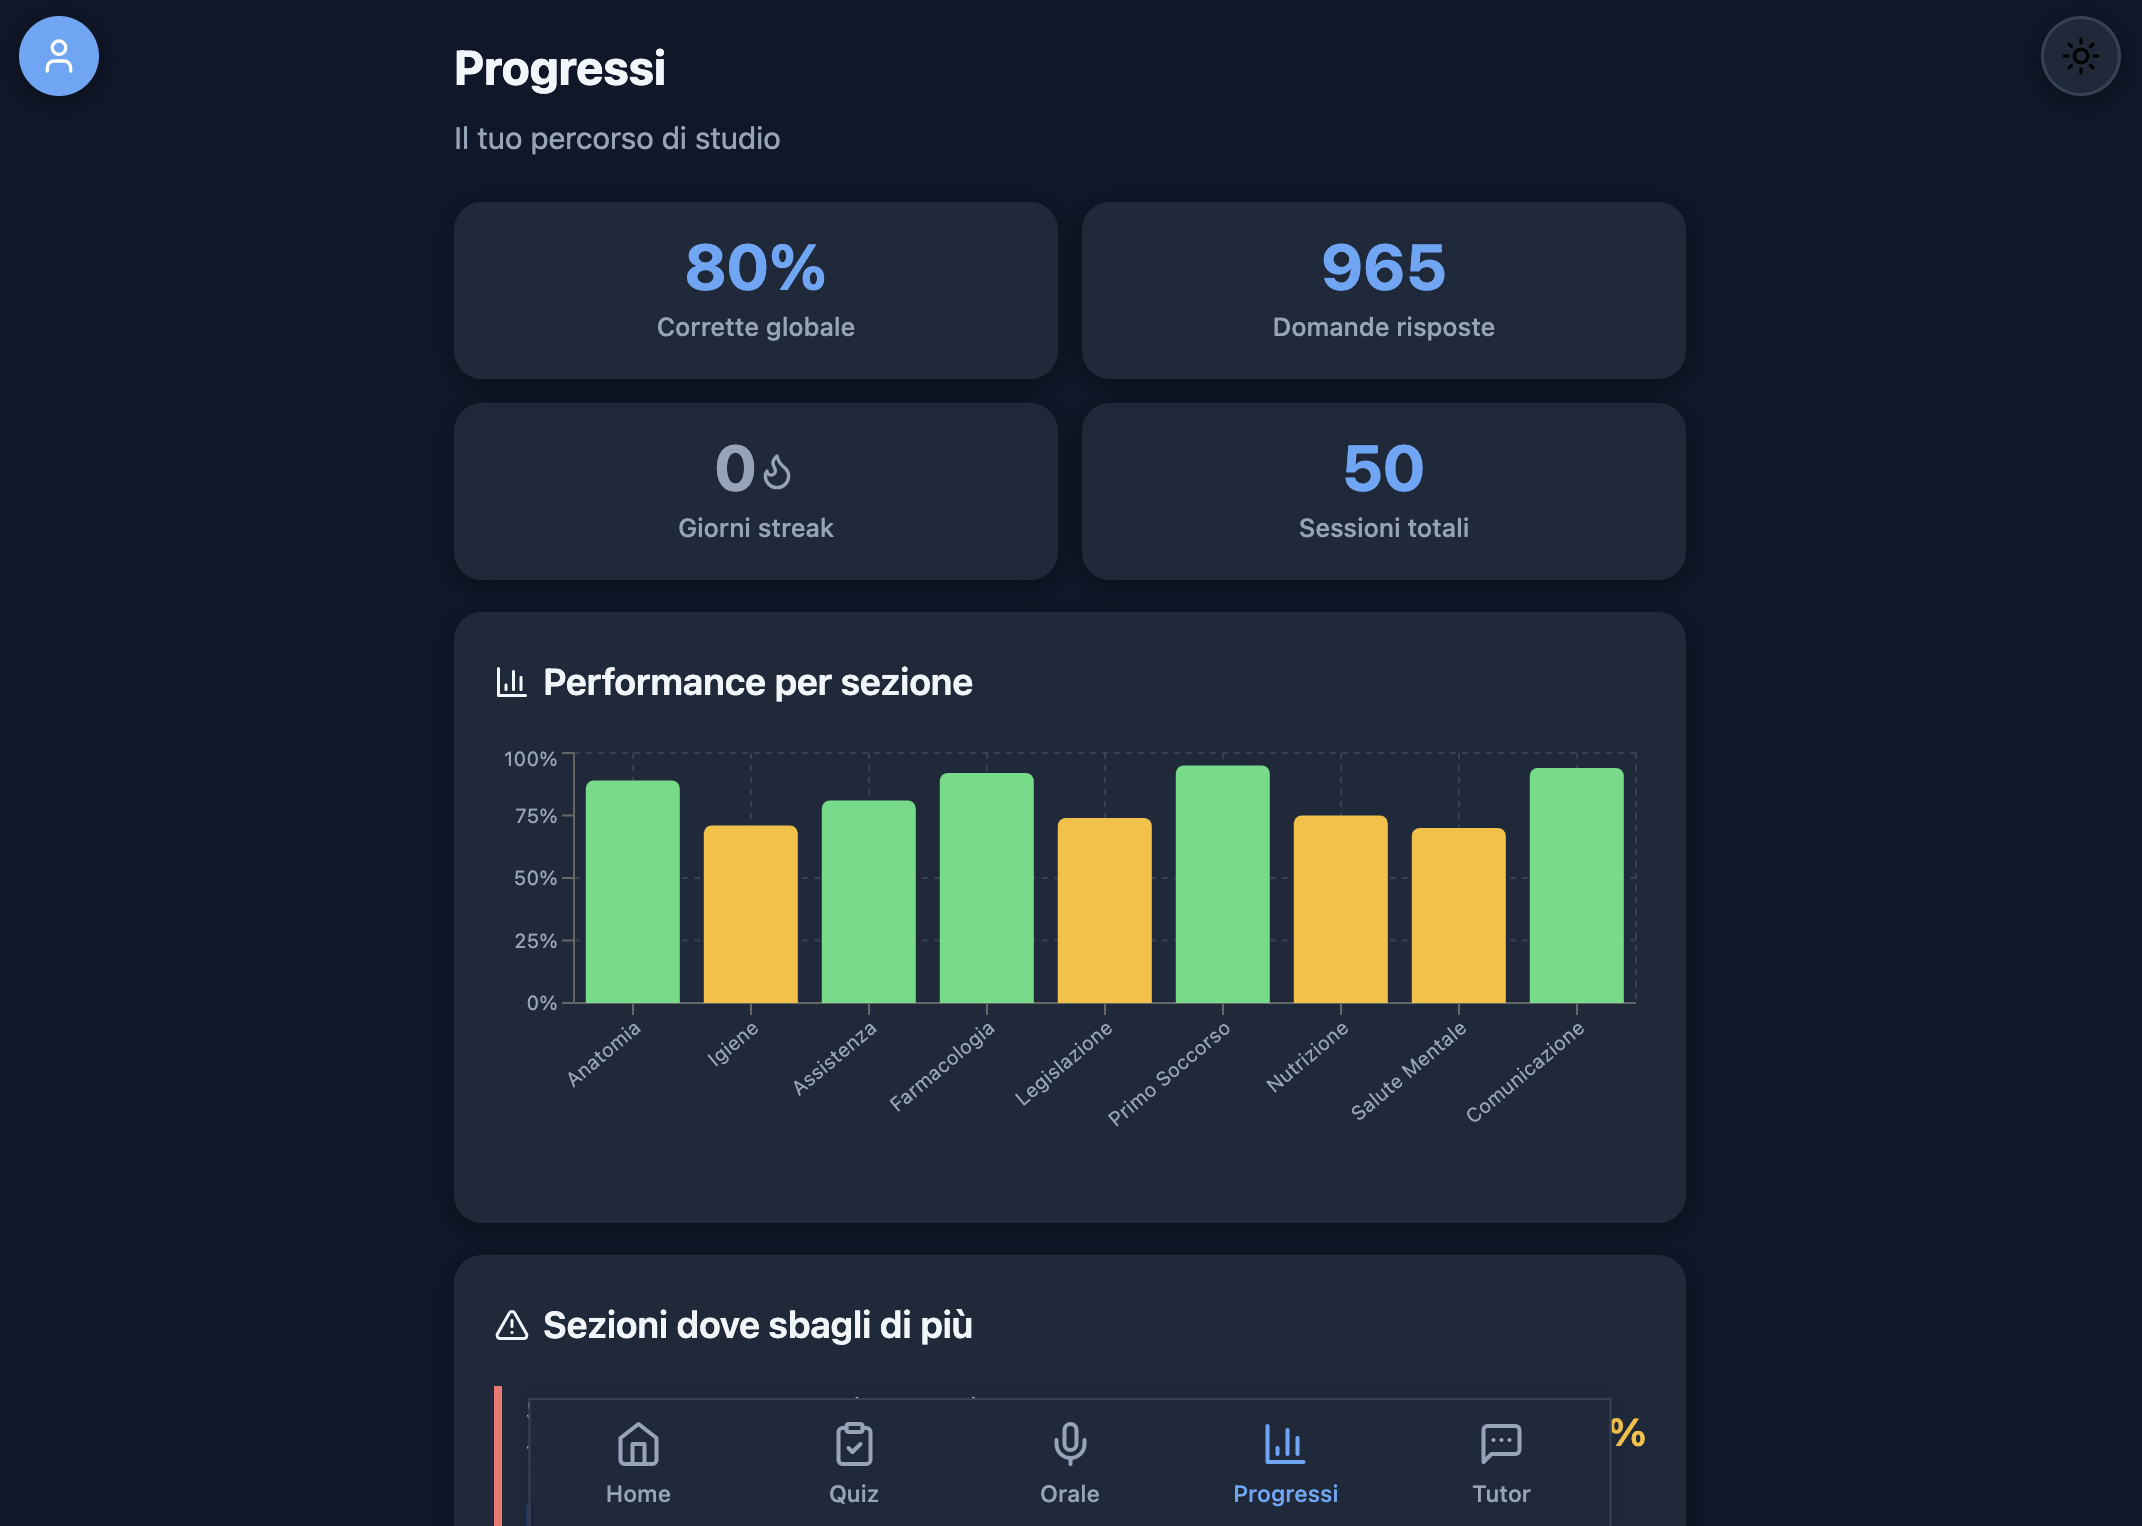
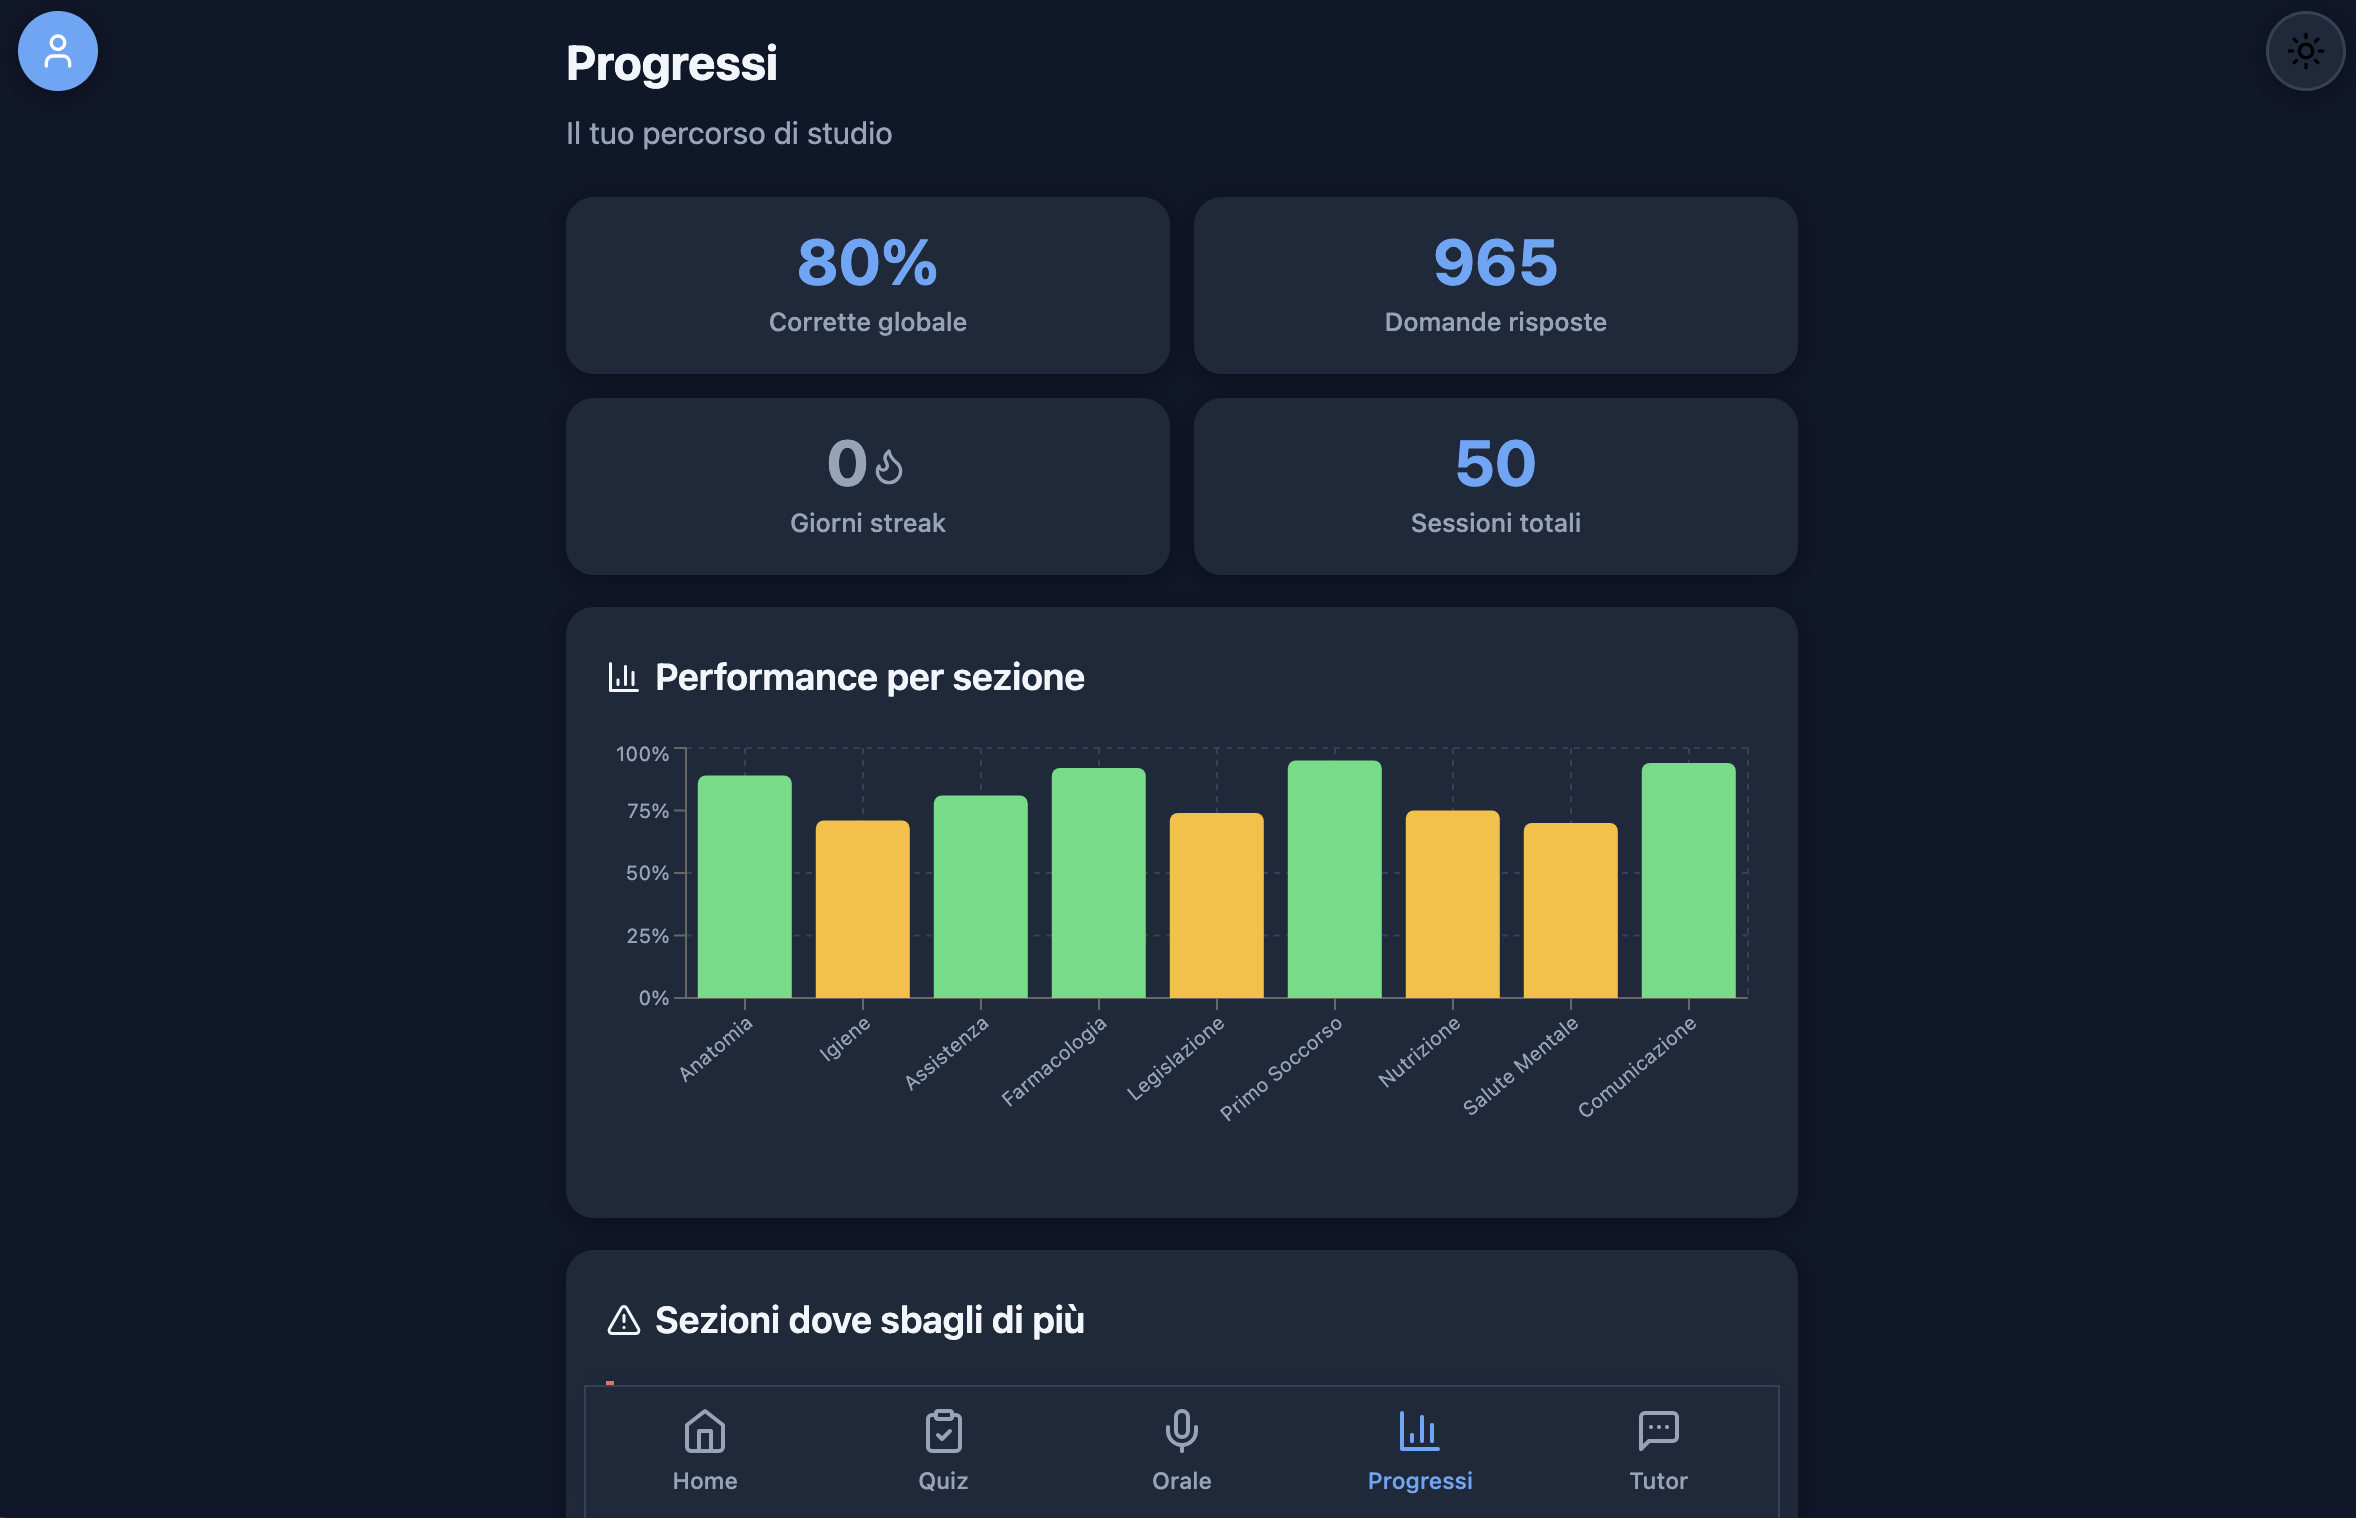
docs: screenshot aggiornati dei Progressi e del Tutor AI nel README

diff --git a/README.md b/README.md
@@ -17,8 +17,12 @@ To provide a realistic and measurable preparation path for the OSS competition, 
 | ![Login](docs/screenshots/login.png) | ![Home](docs/screenshots/home.png) |
 | **Oral exam — start and voice picker** | **Oral exam — answering** |
 | ![Oral start](docs/screenshots/oral-start.png) | ![Oral answer](docs/screenshots/oral-answer.png) |
-| **Progress dashboard** | **Completed oral questions** |
-| ![Progress](docs/screenshots/progress.png) | ![Oral history](docs/screenshots/oral-history.png) |
+| **Completed oral questions** | **Progress — overview** |
+| ![Oral history](docs/screenshots/oral-history.png) | ![Progress overview](docs/screenshots/progress.png) |
+| **Progress — review and errors** | **Progress — oral section** |
+| ![Progress review](docs/screenshots/progress-review.png) | ![Progress oral](docs/screenshots/progress-oral.png) |
+| **AI Tutor** | |
+| ![AI Tutor](docs/screenshots/tutor.png) | |
 
 ## Features
 
